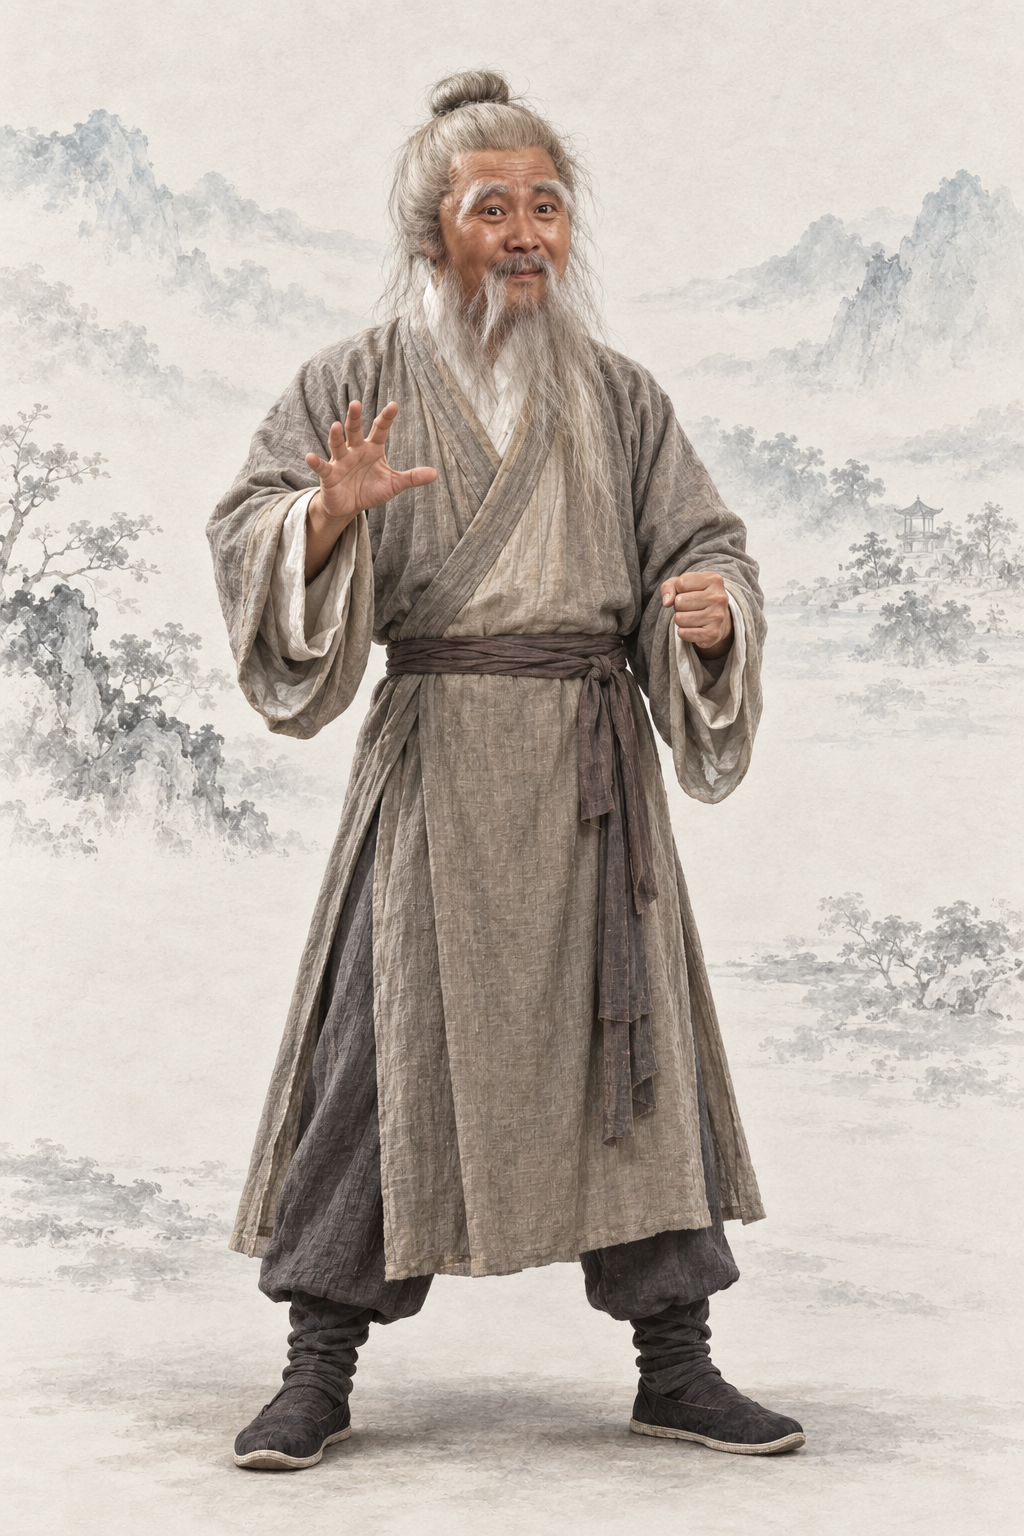
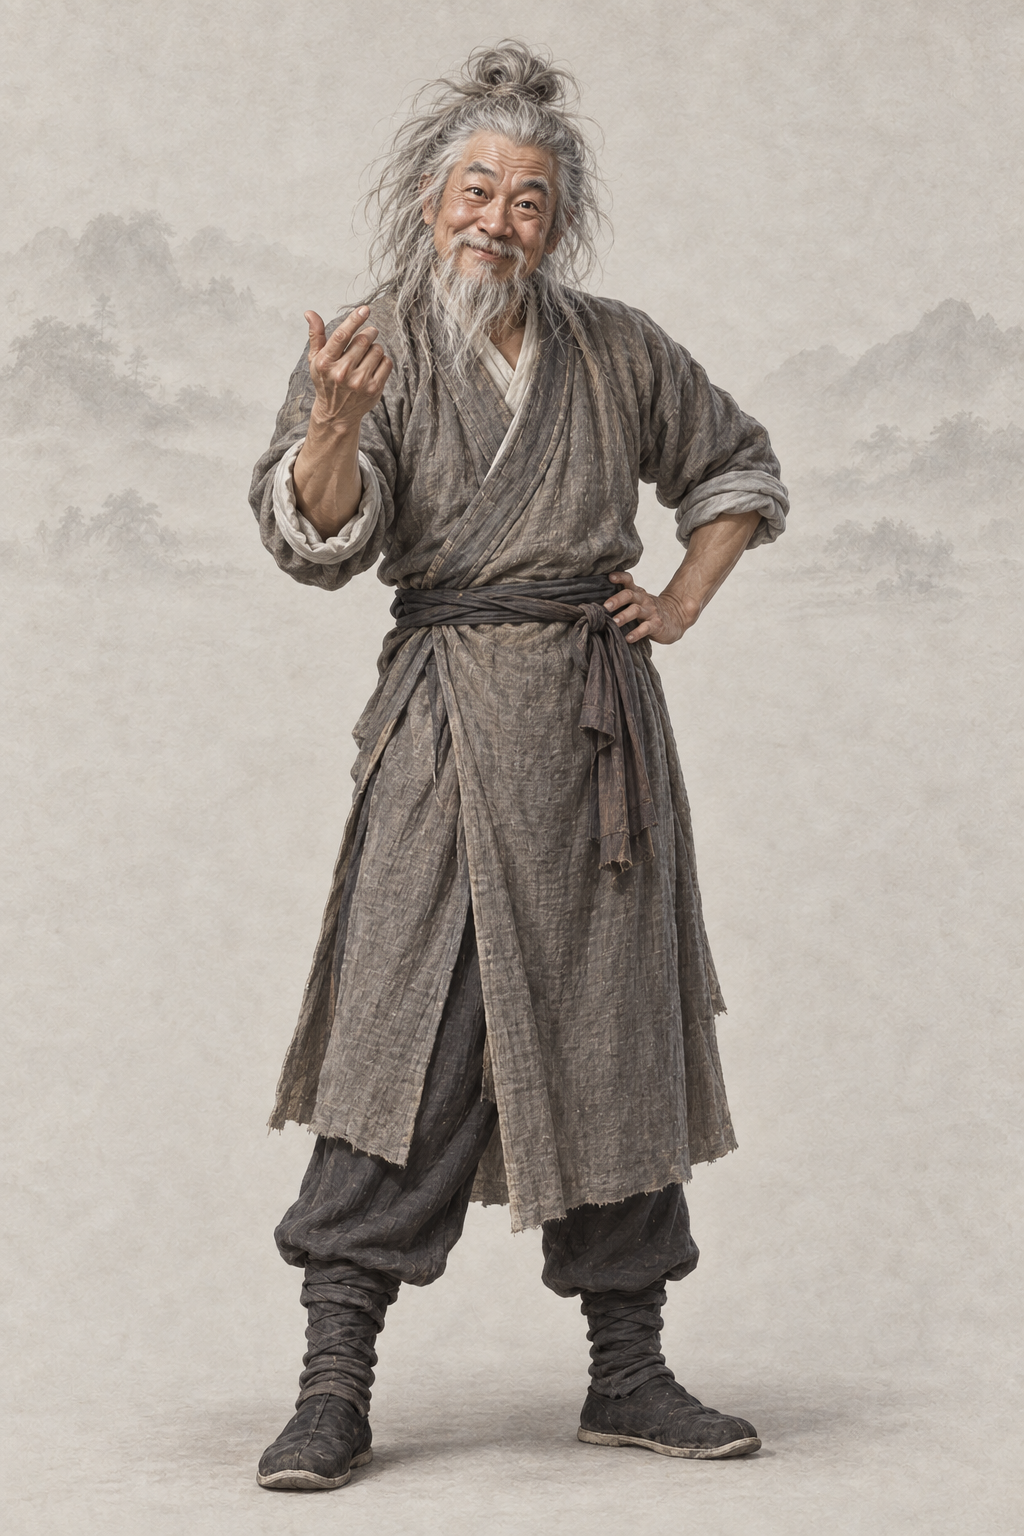
assets(character): por_npc_zhoubotong__ch02_elder_base 周伯通（codex）
AR-31：重要人物加经典造型文字描写（原创面孔，不写演员名、不传剧照）

diff --git a/assets/default/prompts/characters/ch02-shediao/npc_zhoubotong.md b/assets/default/prompts/characters/ch02-shediao/npc_zhoubotong.md
@@ -20,11 +20,32 @@ realism_revision: user_identity_pose_20261001
 redo_reason: "面容几乎照搬 1983 版演员（肖像风险），按原著老顽童用文字原创重做，并作神雕周伯通身份参考"
 reference_upload:
 - assets/default/baseline/character/male/ref_npc_linghuchong__ch05_base01.png
+codex_prompt_rev: 2026-10-02
 ---
 
 # 周伯通 · 人物写实修正
 
 ## Gemini 提示词
+
+> 2026-10-02 AR-31 改写（1 号出图员，codex exec · image_gen 出图）：重要人物借鉴经典影视造型，只写成文字——不写演员名、不上传剧照、原创面孔；主角和美人画得好看，去 AI 味，禁止幼态。出图时上传两张同性别基线立绘作画风参考（放在最后）。审核组原稿保留在下一节作历史。
+
+```text
+生成一张 2:3 竖幅全身人物立绘：单人、单一视角、完整全身——头顶、双手、双脚和手中器物的两端都在画面内，四周留出自然空白；人物站姿自然，身体基本朝向正面，头部端正（不歪头、不仰不俯），镜头平视。
+【画风】写实手绘古风人物插画，与本项目写实武侠角色立绘同一画风：人物是完整、坚实、比例真实的写实绘画；皮肤有真实质感——细小毛孔、细纹、晒痕、轻微色斑和自然的左右不对称，不磨皮、不油亮；头发有一根根的发丝和自然碎发；布料看得出经纬纹理、厚薄和自然垂坠的褶皱，带穿用过的轻微旧化，但完整不破烂；整体设色低饱和、沉稳；柔和的自然光从左上方照来，明暗过渡自然，不打舞台光、轮廓光或美颜柔光。这是手绘写实绘画，不是照片，不是三维渲染，也不是动漫或游戏 CG。
+【背景】不透明的暖浅灰色纸底，只在远处有极淡的水墨远山和薄雾，大面积留白；人物与背景明暗分明、轮廓边缘干净完整（后续要自动抠图），水墨和纸纹只在背景里，不侵入人物和衣服；脚下只有很淡的一点接触阴影。
+【人物】周伯通，《射雕英雄传》老顽童，全真教王重阳的师弟，被困桃花岛十五年后脱困、教郭靖左右互搏的阶段；天真好胜、爱玩爱闹，头脑其实清楚。
+【年龄与体态】六十岁上下（确龄待考），中等身材、精瘦灵活。
+【经典造型】借鉴经典武侠影视里这个角色深入人心的造型，只取发型、装束、配色、标志道具、气质和脸型类型，用原创面孔画出来，不像任何真实演员：老顽童——须发蓬乱花白、满脸顽童般的笑，衣衫随意，手舞足蹈、天真好玩。
+【面容】圆脸、颧骨饱满、脸色红润；花白浓眉、眉尾下垂；一双圆而亮的眼睛透着顽皮和促狭；鼻头圆；嘴巴咧着笑；眼角额头满是笑纹（原创扩展）。
+【发式】满头花白长发乱蓬蓬地挽了一半，另一半散着；花白长须乱翘（原著困洞多年、须发皆长）。
+【服饰】灰褐色旧布长衫（右衽），袖子随手挽起，腰带随便一系，灰裤、布鞋；旧而完整。
+【道具】空手。
+【姿态与神情】一手比划着、一手叉腰，身体微微前倾像要跟人打赌，头部端正；神情顽皮天真。
+【不要】画面里不要任何文字、题款、印章、签名、水印、边框、分格或多视图；不要第二个人；不要幼态（童颜、娃娃脸、婴儿肥、儿童或少年身材、大头小身）；不要塑料感皮肤、磨皮美颜、网红脸（尖下巴大眼高鼻的模板脸）、过度对称、浓妆、偶像式打光、蜡像感；不要照片质感、三维渲染或动漫大眼；不要歪头、斜镜头；不要多指、缺指（设定的伤残除外）、手与器物粘连或悬空；汉式交领必须右衽（穿着者的左襟压在右襟上），不要左衽（设定为少数民族服制的除外），不要水平镜像；不要现代物品、发光特效、法阵或能量光。不要仙风道骨或严肃的老道；不要歪头吐舌卖萌；不要道冠法衣；不要像任何具体演员。
+【画风基线】随提示词上传的参考图里，最后两张是本项目的立绘画风基线：只参考它们的画风、用色、光线、质感和暖浅灰纸底加淡水墨的背景处理，整体画风必须与它们一致——精细写实的数字手绘插画，不是油画，不要厚涂笔触和画布纹理。参考图只取画风、光线、质感和背景处理，不取长相：不要照搬基线图里人物的长相、年龄、发型、服饰和姿势。
+```
+
+## 审核组 Gemini 提示词（2026-10-02 AR-30 重审稿；AR-31 改写前，历史，不再用于出图）
 
 > 2026-10-02 重要人物立绘重审（A 组，`tools/agents/reports/REVIEW-portraits-A-ch00-04.md`）：**整体重出**。面容几乎照搬 1983 版演员（肖像风险），按原著老顽童用文字原创重做，并作神雕周伯通身份参考。
 > 本条不上传任何参考图（`reference_upload: []`）；frontmatter 的 `references` 与本节以下内容是旧出图管线的历史记录，不再用于出图。
